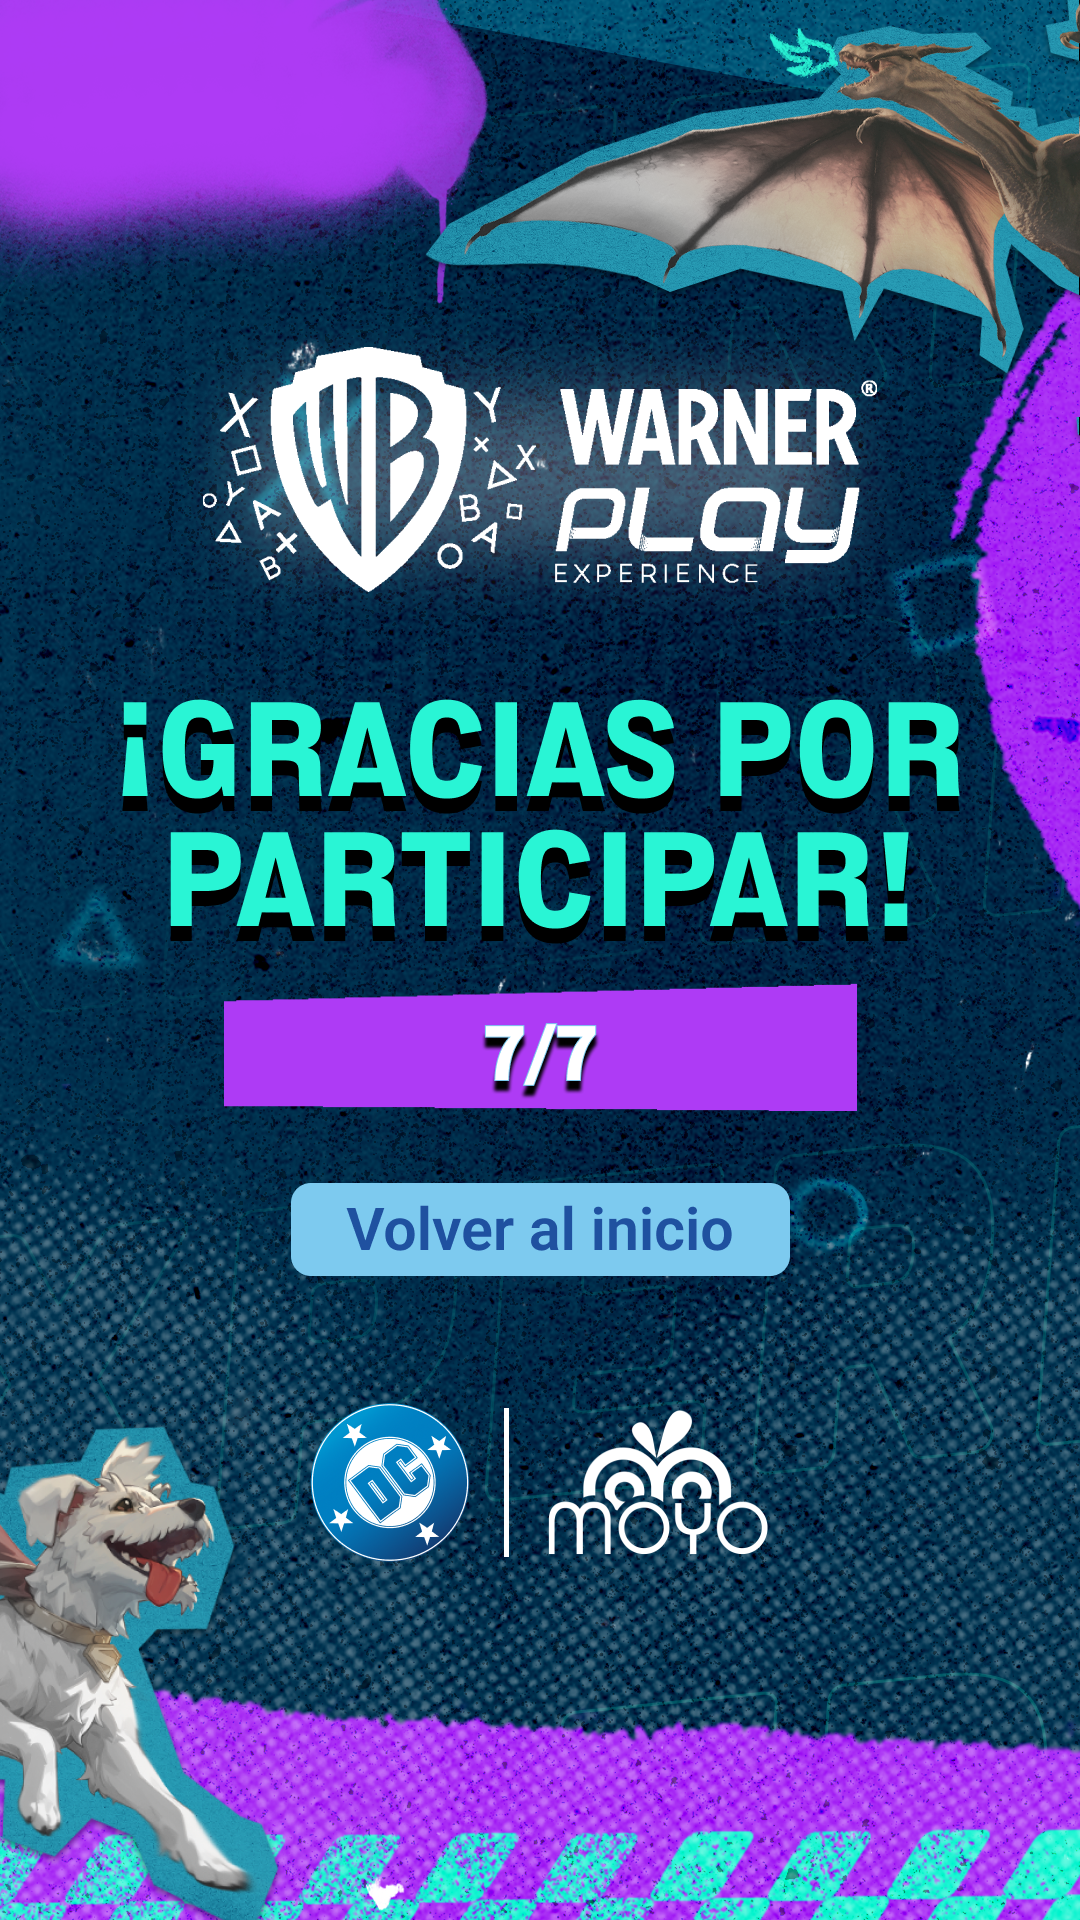
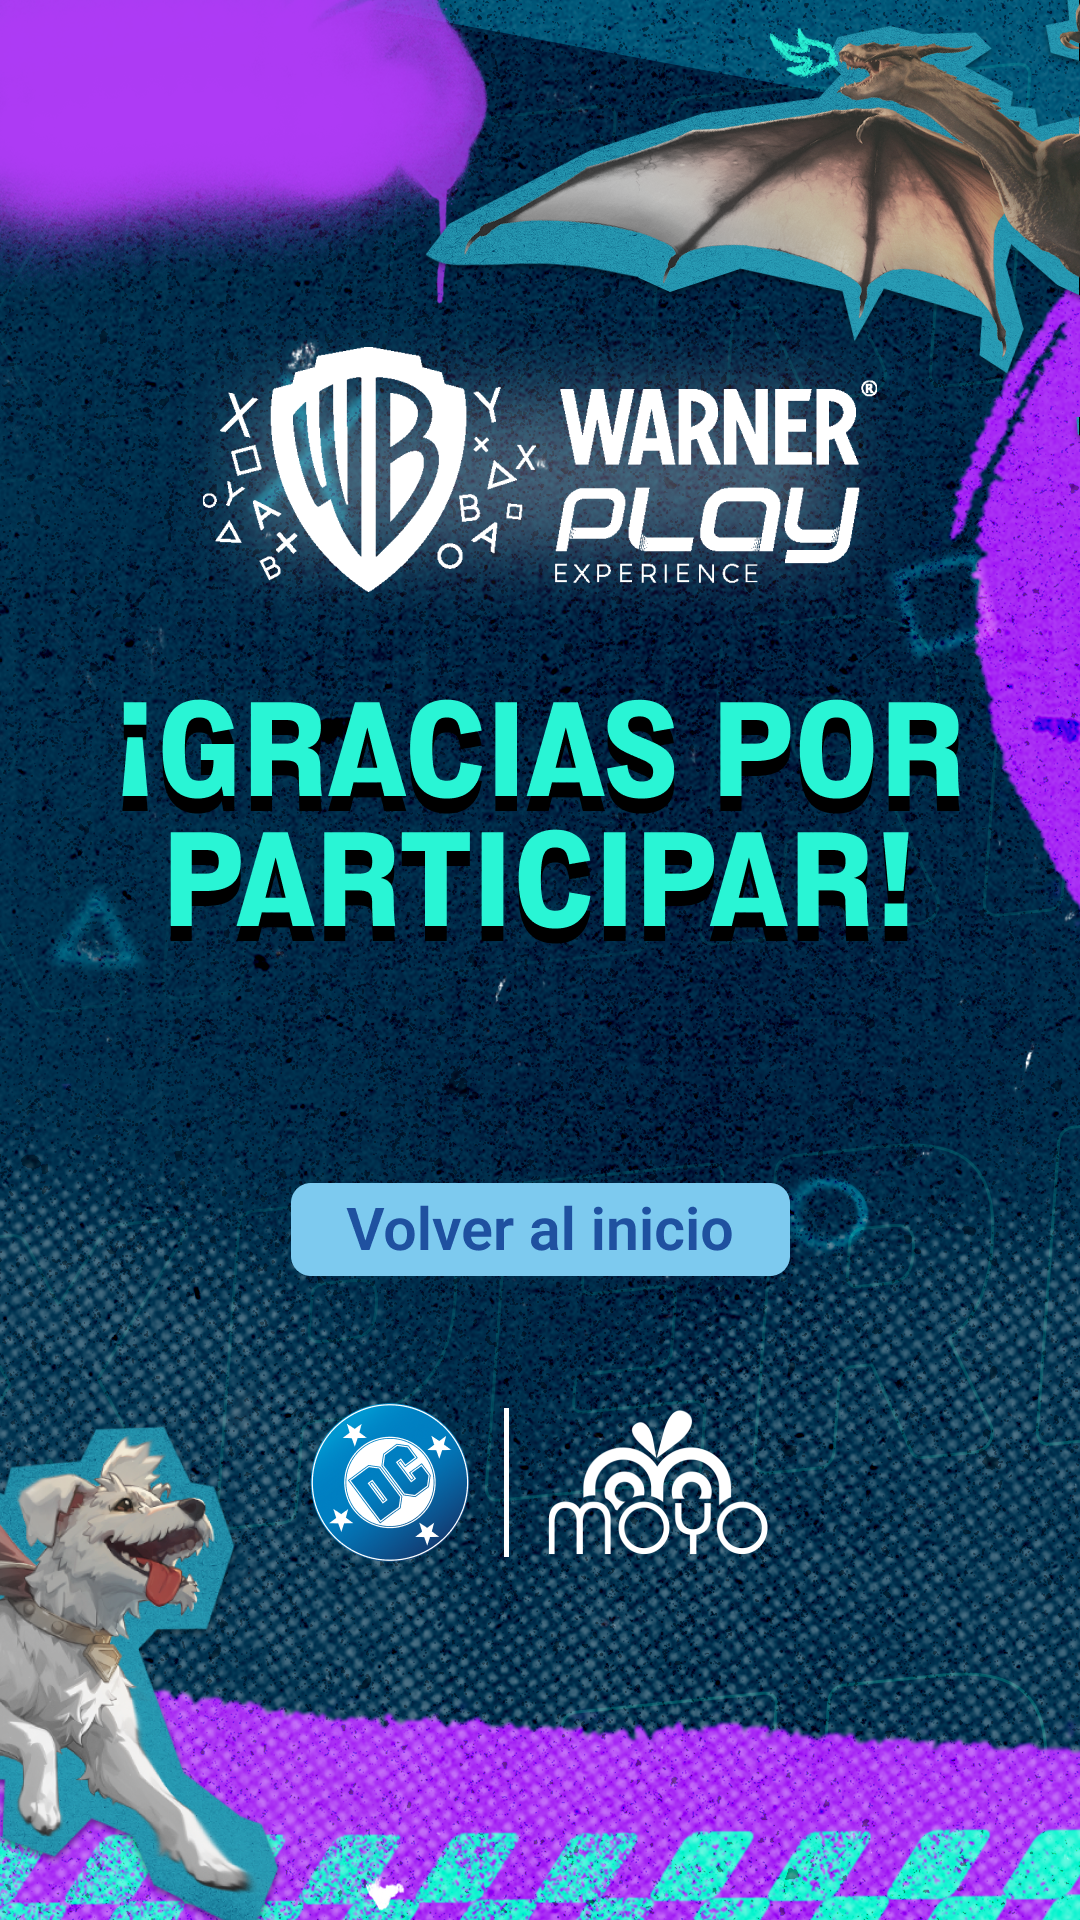
update

Changed region(s): [[0.1833, 0.5, 0.7944, 0.5938]]

diff --git a/app/(main)/ranking/page.tsx b/app/(main)/ranking/page.tsx
@@ -16,9 +16,10 @@ interface Record {
 
 export default function LoginPage() {
   const router = useRouter();
-  const { logged } = useUser();
+  const { logged, mail } = useUser();
   const [records, setRecords] = useState<Record[] | null>(null);
   const [top5, setTop5] = useState<Record[] | null>(null);
+  const [userScore, setUserScore] = useState<number>(0);
 
   useEffect(() => {
     async function getAllRecords() {
@@ -38,10 +39,17 @@ export default function LoginPage() {
 
       setRecords(records);
       setTop5(sortedData.slice(0, 3));
+      
+      // Encontrar el puntaje del usuario actual
+      const currentUserRecord = records.find(record => record.id === mail);
+      if (currentUserRecord) {
+        // Convertir puntaje de puntos a número de preguntas correctas (dividir por 20)
+        setUserScore(Math.floor(currentUserRecord.puntaje / 20));
+      }
     }
 
     getAllRecords();
-  }, []);
+  }, [mail]);
 
   function nextPage() {
     router.push("/login");
@@ -61,6 +69,26 @@ export default function LoginPage() {
           backgroundRepeat: 'no-repeat'
         }}
       />
+      
+      {/* Puntaje del Usuario */}
+      <div className="relative flex justify-center items-center mb-8 z-50 mt-48">
+        <div 
+          className="w-[800px] h-[180px] rounded-3xl flex items-center justify-center"
+          style={{
+            backgroundImage: 'url(/assets/background-id-section.png)',
+            backgroundSize: 'contain',
+            backgroundPosition: 'center',
+            backgroundRepeat: 'no-repeat'
+          }}
+        >
+          <div className="text-center">
+            <h2 className="text-white text-6xl font-bold mb-4">¡FELICIDADES!</h2>
+            <p className="text-white text-4xl font-bold">
+              Calificación: {userScore}/7
+            </p>
+          </div>
+        </div>
+      </div>
     </div>
   );
 }

diff --git a/app/(main)/trivia/page.tsx b/app/(main)/trivia/page.tsx
@@ -86,7 +86,7 @@ export default function TriviaPage() {
       } else {
         nextQuestion();
       }
-    }, 1000);
+    }, 500);
   }
 
   function nextQuestion() {
@@ -105,12 +105,6 @@ export default function TriviaPage() {
           backgroundPosition: 'center',
           backgroundRepeat: 'no-repeat'
         }}
-      />
-      
-      <img
-        src="/assets/preguntas/encabezado-logo.png"
-        alt="Logo encabezado"
-        className="absolute top-16 left-1/2 transform -translate-x-1/2 z-50 w-72 h-auto"
       />
 
       {selectedQuestions &&
@@ -154,13 +148,6 @@ export default function TriviaPage() {
             </div>
           </div>
         )}
-
-      {/* Footer Logo */}
-      <img
-        src="/assets/preguntas/footer-logo.png"
-        alt="Footer Logo"
-        className="absolute bottom-16 left-1/2 transform -translate-x-1/2 z-50 w-64 h-auto"
-      />
     </div>
   );
 }
